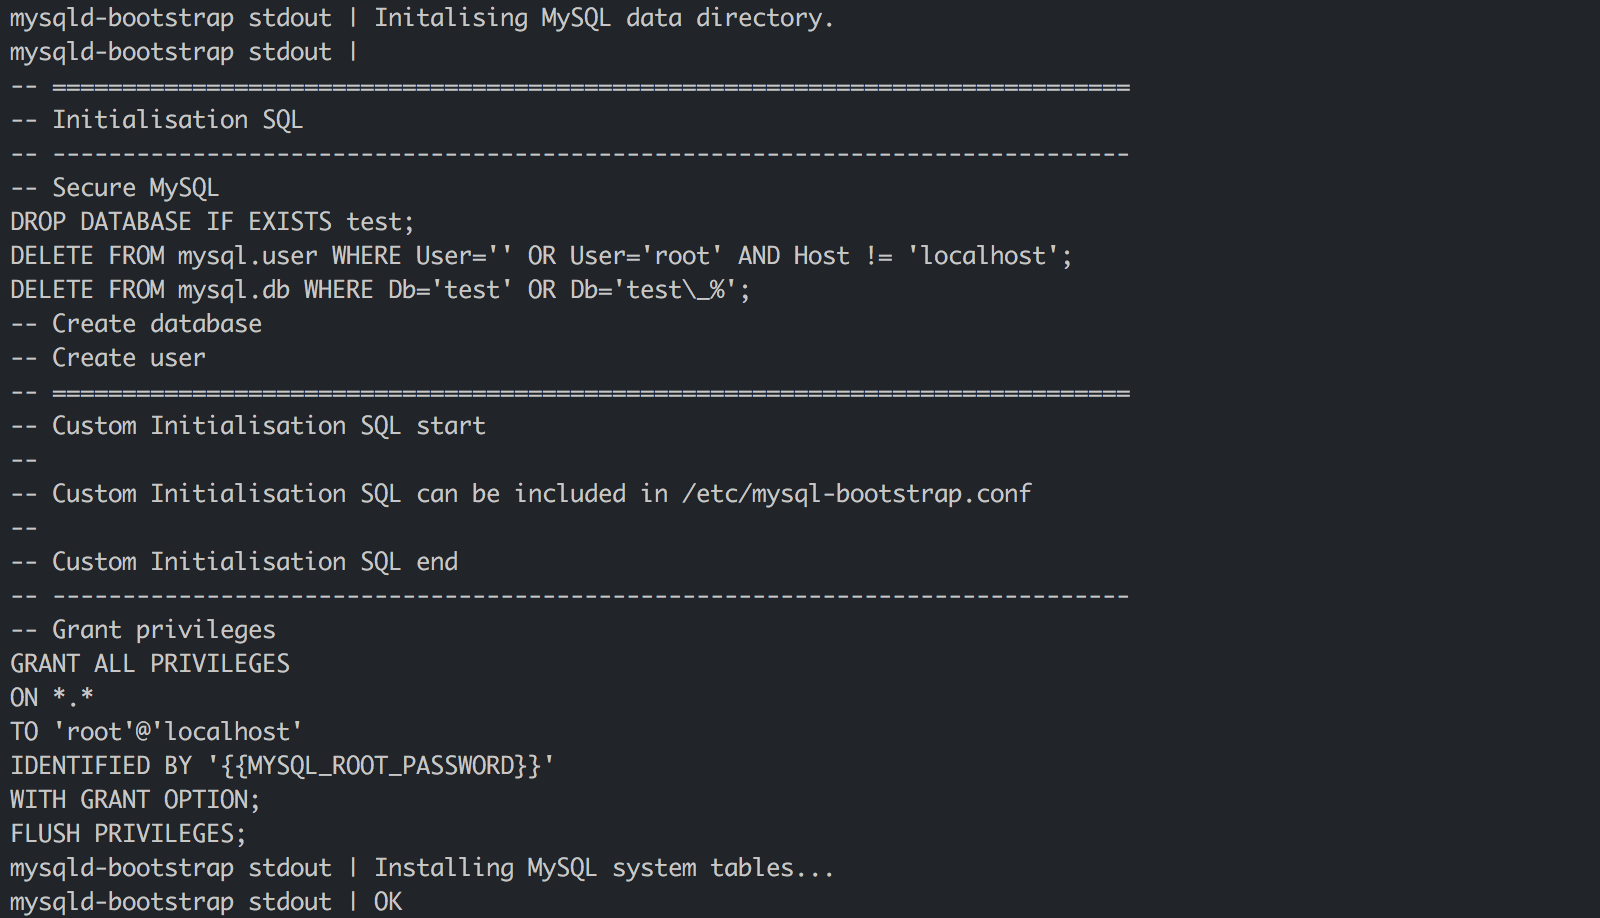
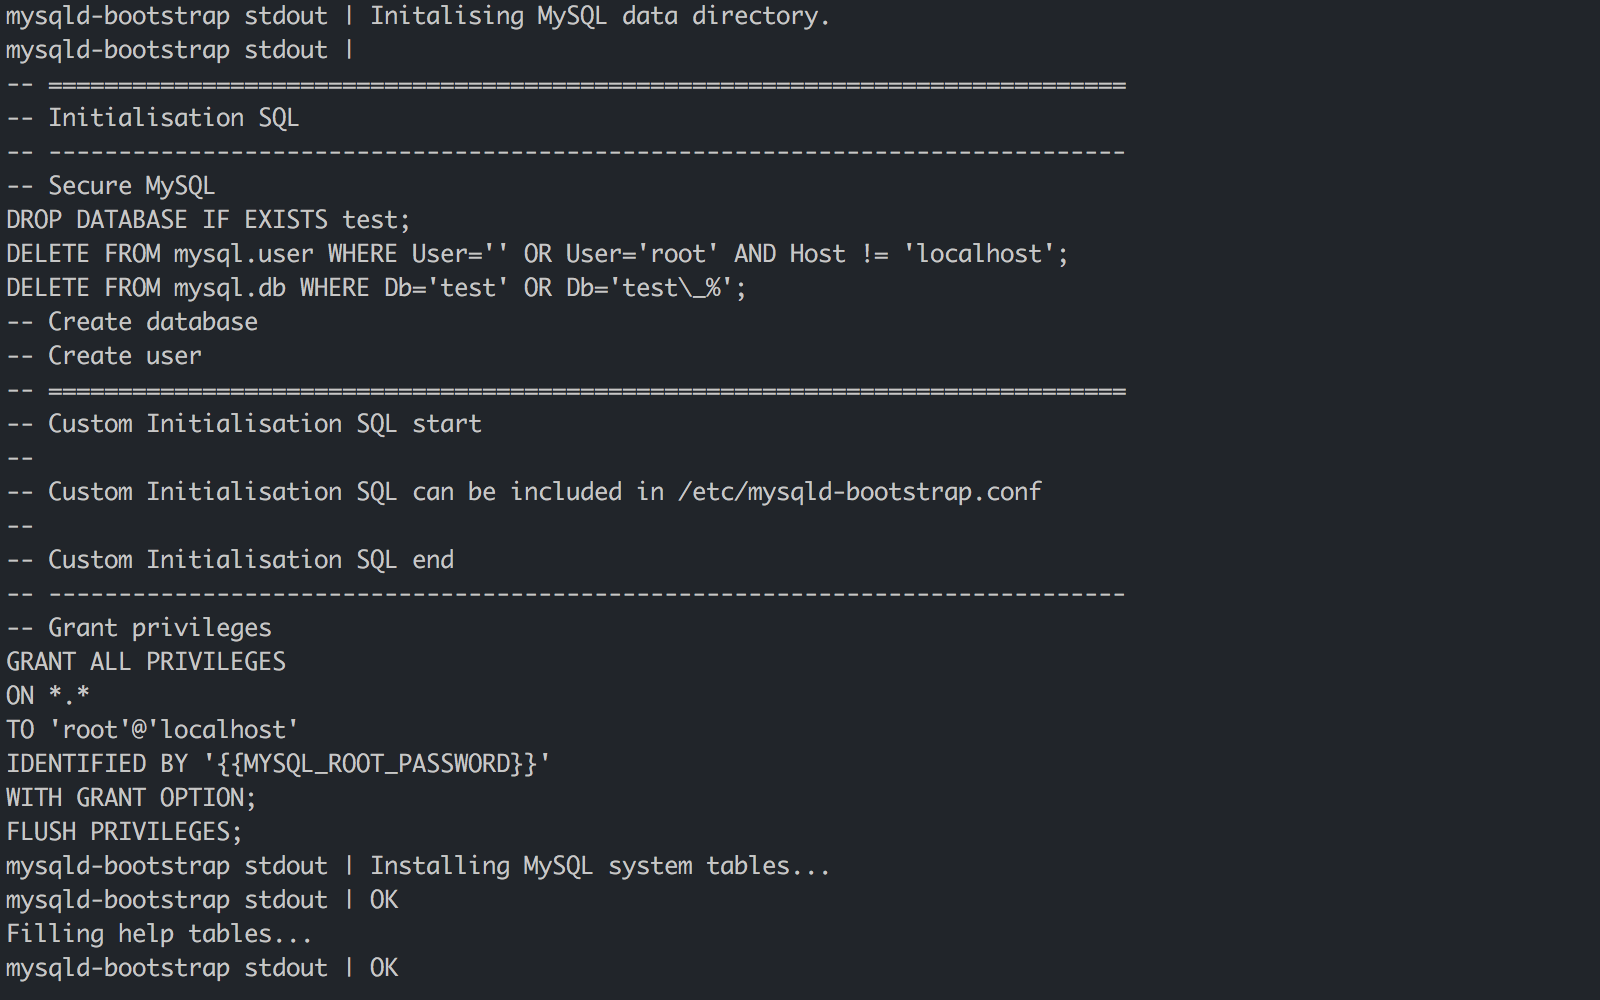
ISSUE 147: Fixes path error in log output for custom initialisation SQL.

Changed region(s): [[0.0, 0.0, 0.7188, 1.0]]

diff --git a/CHANGELOG.md b/CHANGELOG.md
@@ -9,6 +9,7 @@ CentOS-6 6.9 x86_64 - MySQL 5.1.
 ### 1.8.1 - Unreleased
 
 - Updates source image to [1.8.2 tag](https://github.com/jdeathe/centos-ssh/releases/tag/1.8.2).
+- Fixes path error in log output for custom initialisation SQL.
 
 ### 1.8.0 - 2017-07-27
 
